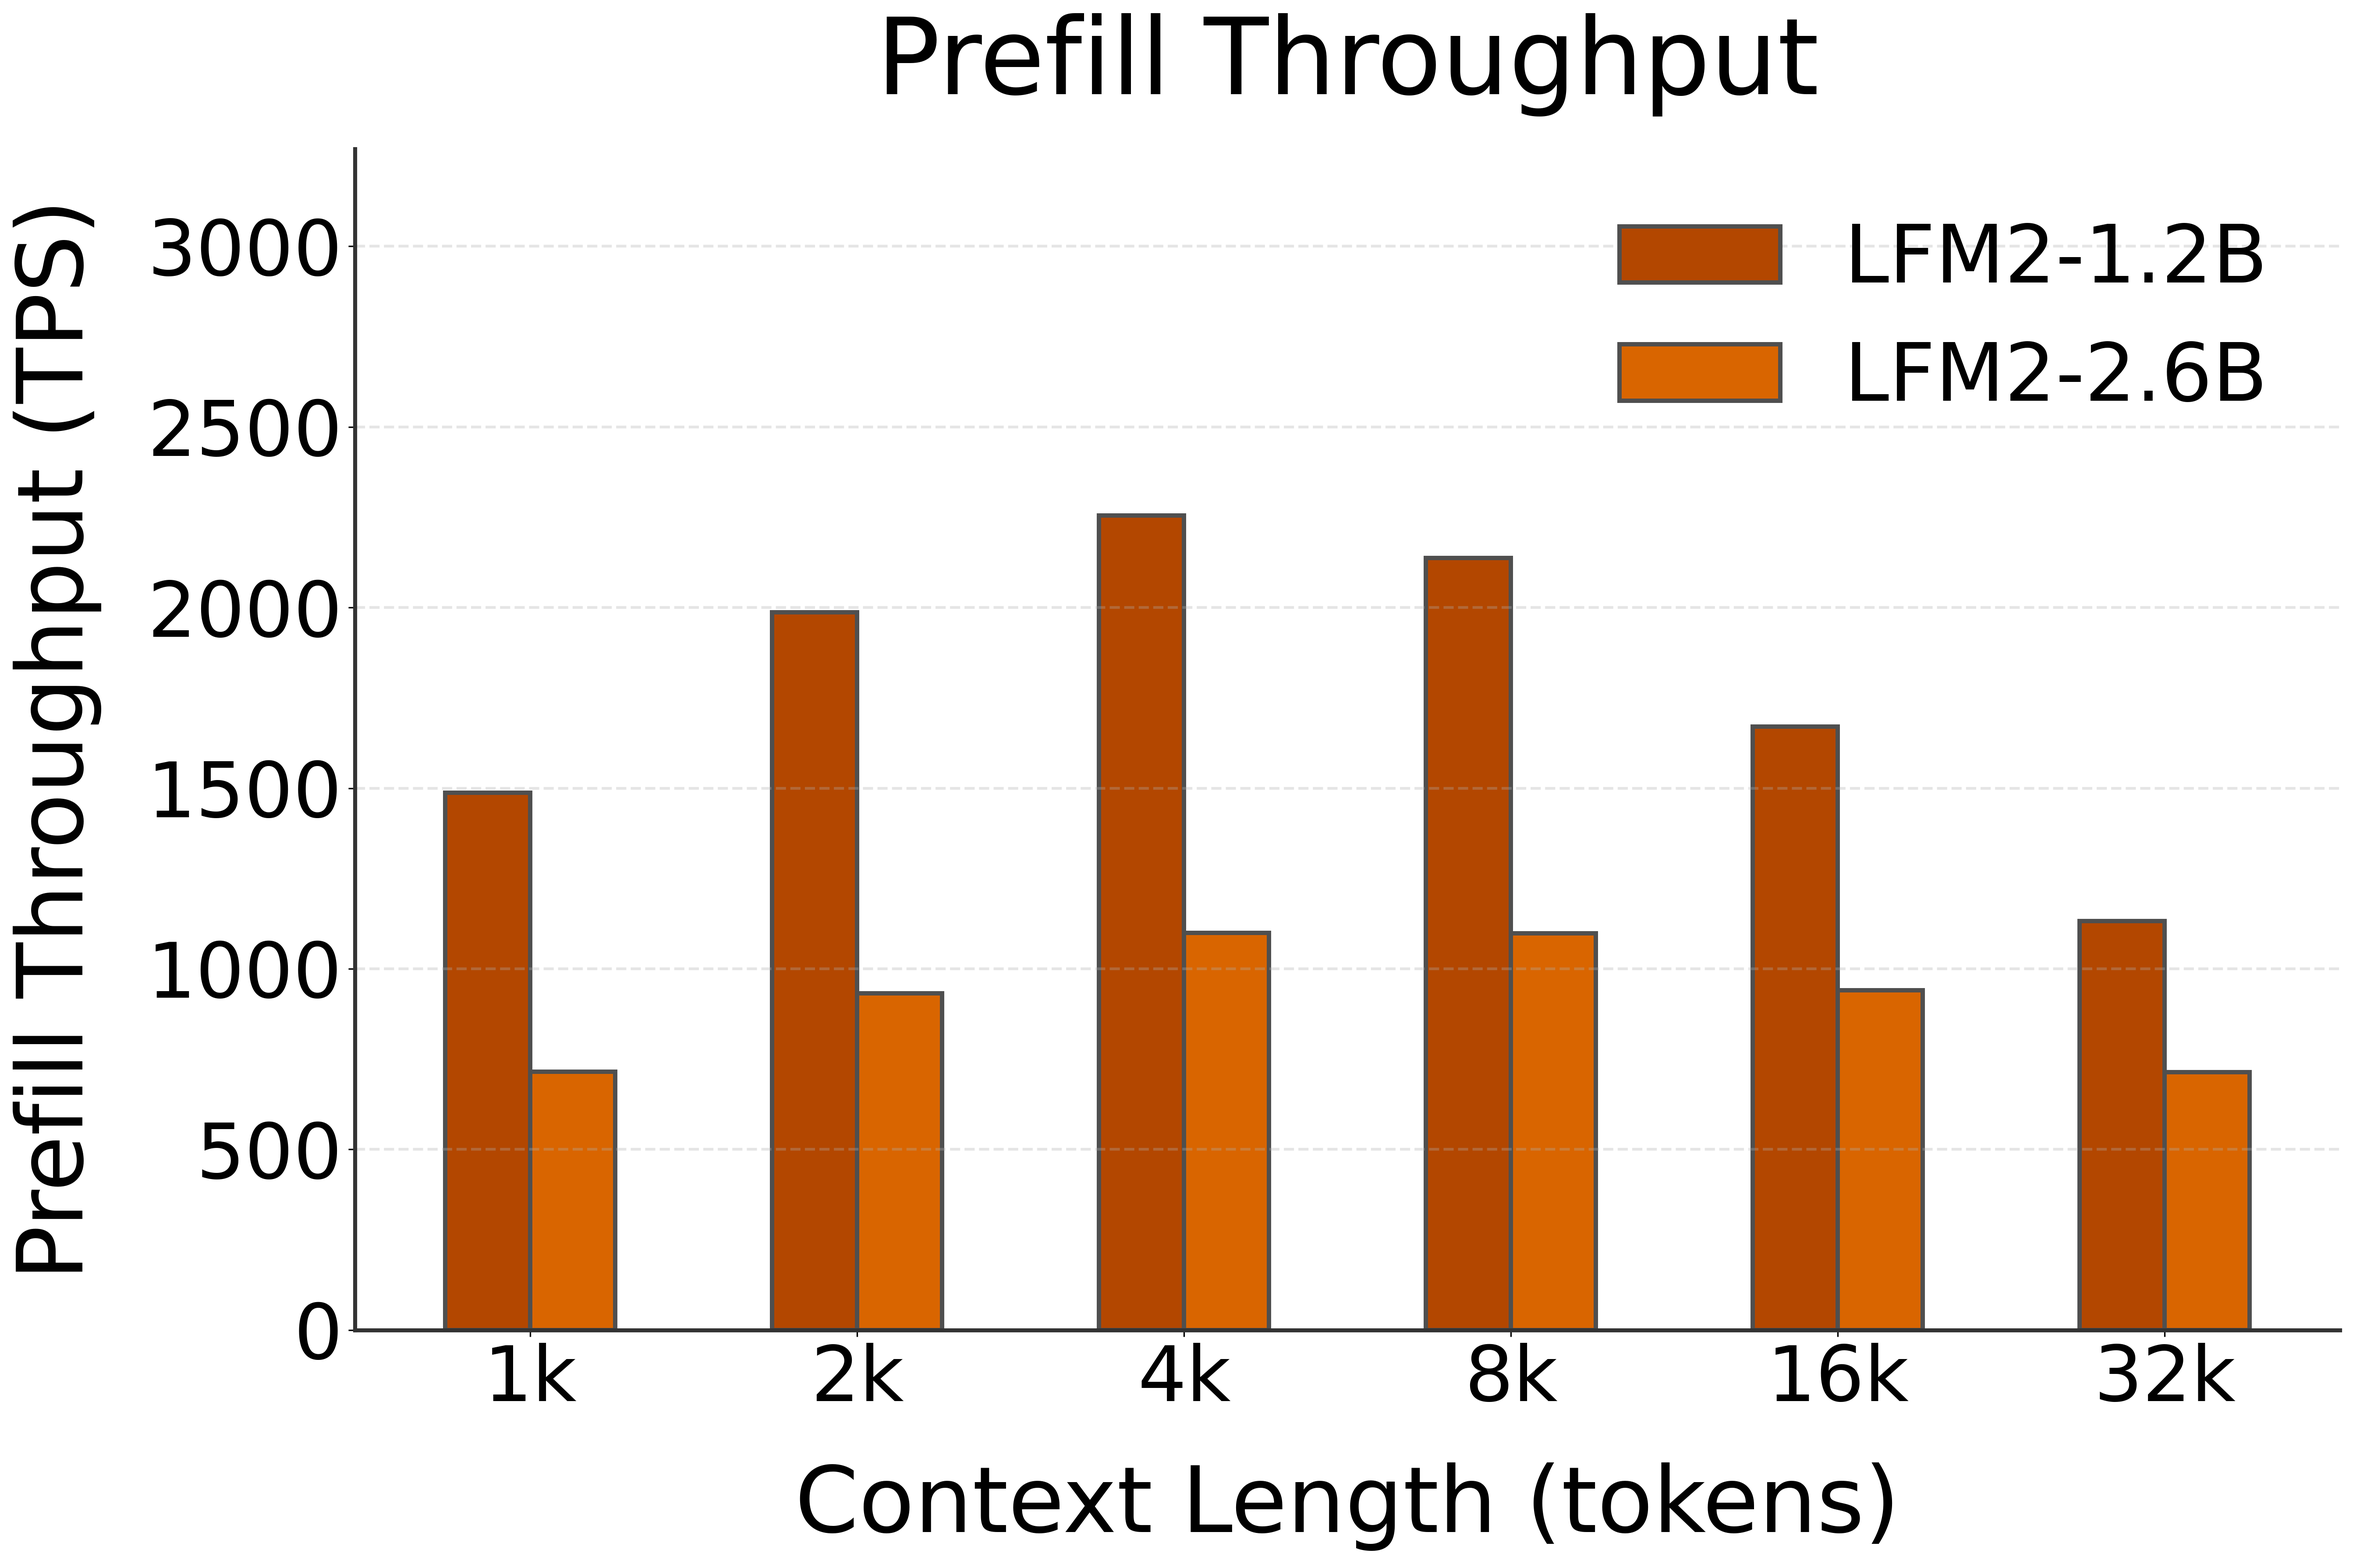
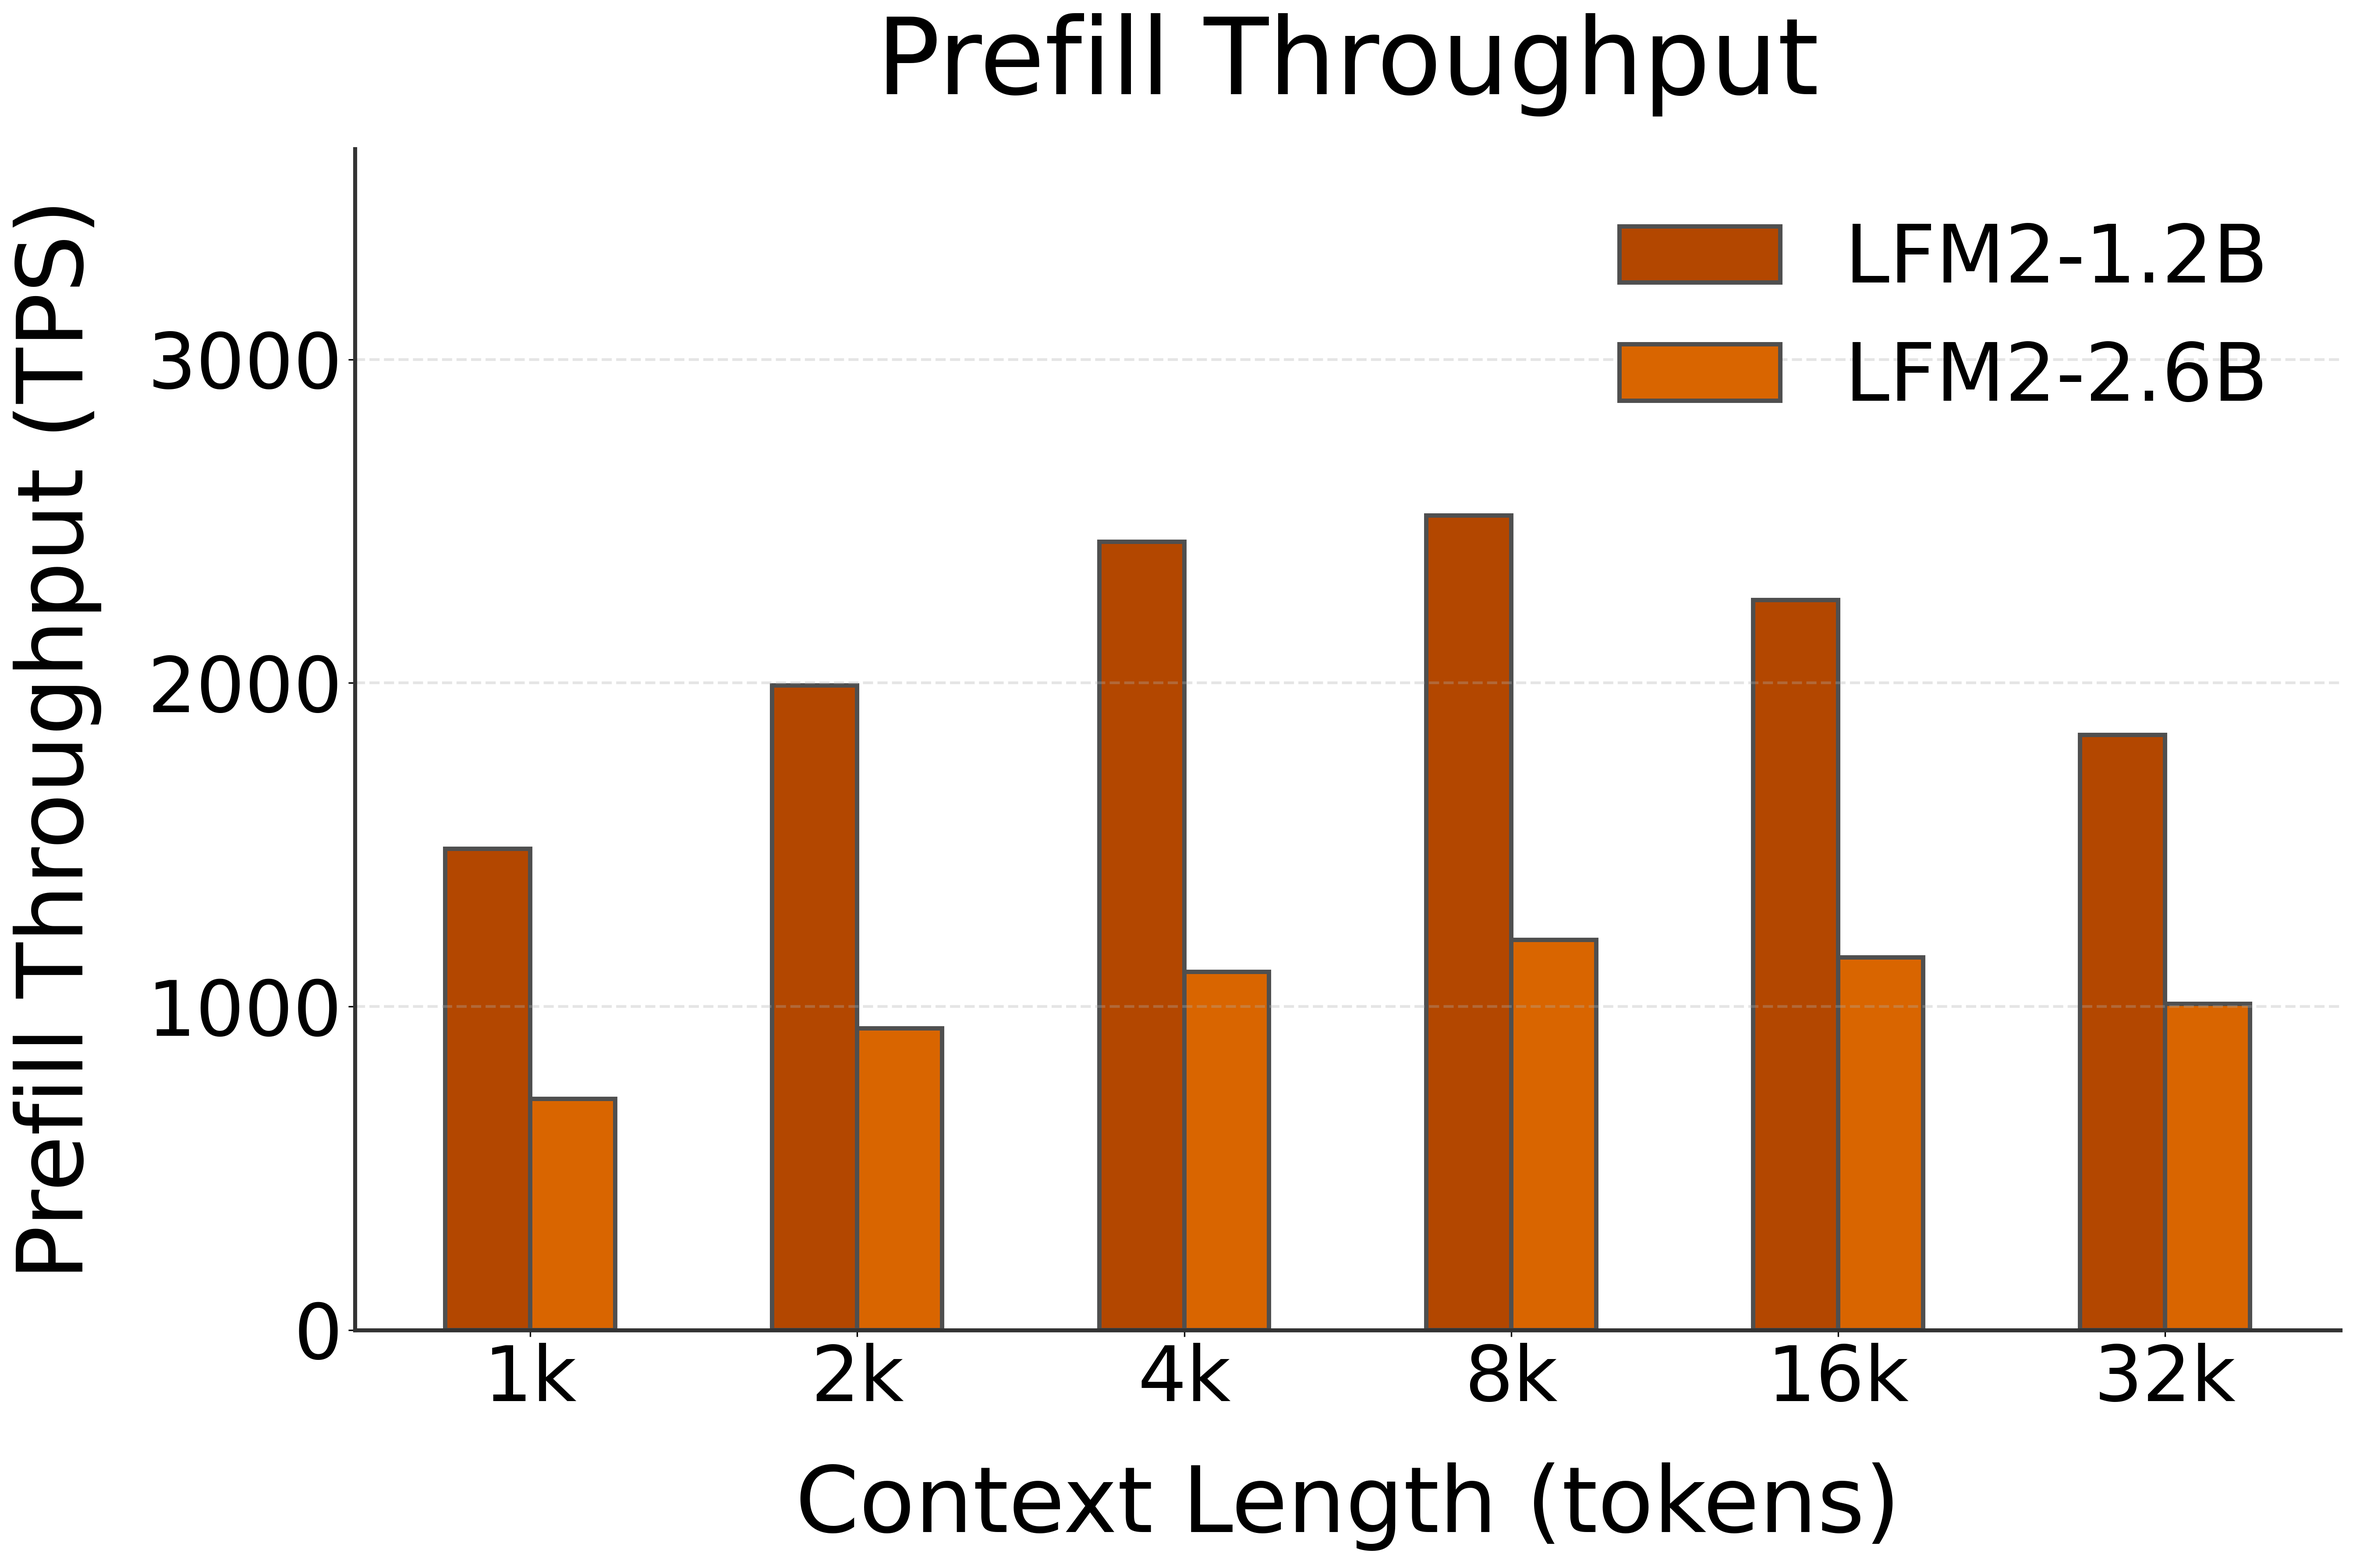
docs: update v0.9.30

diff --git a/docs/docs/benchmarks/lfm2_results.md b/docs/docs/benchmarks/lfm2_results.md
@@ -10,7 +10,7 @@ nav_order: 5
 This section reports the performance on NPU with FastFlowLM (FLM).
 
 > **Note:** 
-> - Results are based on FastFlowLM v0.9.26.
+> - Results are based on FastFlowLM v0.9.30.
 > - Under FLM's default NPU power mode (Performance)  
 > - Newer versions may deliver improved performance.
 > - Fine-tuned models show performance comparable to their base models (e.g., LFM2-1.2B vs. LFM2.5-Instruct-1.2B/LFM2.5-Thinking-1.2B, and LFM2-2.6B vs. LFM2-2.6B-Transcript). 

diff --git a/docs/docs/benchmarks/llama3_results.md b/docs/docs/benchmarks/llama3_results.md
@@ -10,7 +10,7 @@ nav_order: 1
 This section reports the performance of LLaMA 3.x on NPU with FastFlowLM (FLM).
 
 > **Note:** 
-> - Results are based on FastFlowLM v0.9.21.  
+> - Results are based on FastFlowLM v0.9.30.  
 > - Under FLM's default NPU power mode (Performance)   
 > - Newer versions may deliver improved performance.
 > - Fine-tuned models show performance comparable to their base models.   

diff --git a/docs/docs/benchmarks/phi4_results.md b/docs/docs/benchmarks/phi4_results.md
@@ -10,7 +10,7 @@ nav_order: 4
 This section reports the performance on NPU with FastFlowLM (FLM).
 
 > **Note:** 
-> - Results are based on FastFlowLM v0.9.25.
+> - Results are based on FastFlowLM v0.9.30.
 > - Under FLM's default NPU power mode (Performance)   
 > - Newer versions may deliver improved performance.
 > - Fine-tuned models show performance comparable to their base models. 

diff --git a/docs/docs/models/qwen.md b/docs/docs/models/qwen.md
@@ -143,7 +143,7 @@ flm run qwen3-it:4b
 
 - **Type:** Image-Text-to-Text
 - **Think:** No
-- **Tool Calling Support:** Yes  
+- **Tool Calling Support:** No  
 - **Base Model:** [Qwen/Qwen3-VL-4B-Instruct](https://huggingface.co/Qwen/Qwen3-VL-4B-Instruct)
 - **Quantization:** Q4_1
 - **Max Context Length:** 256k tokens  
